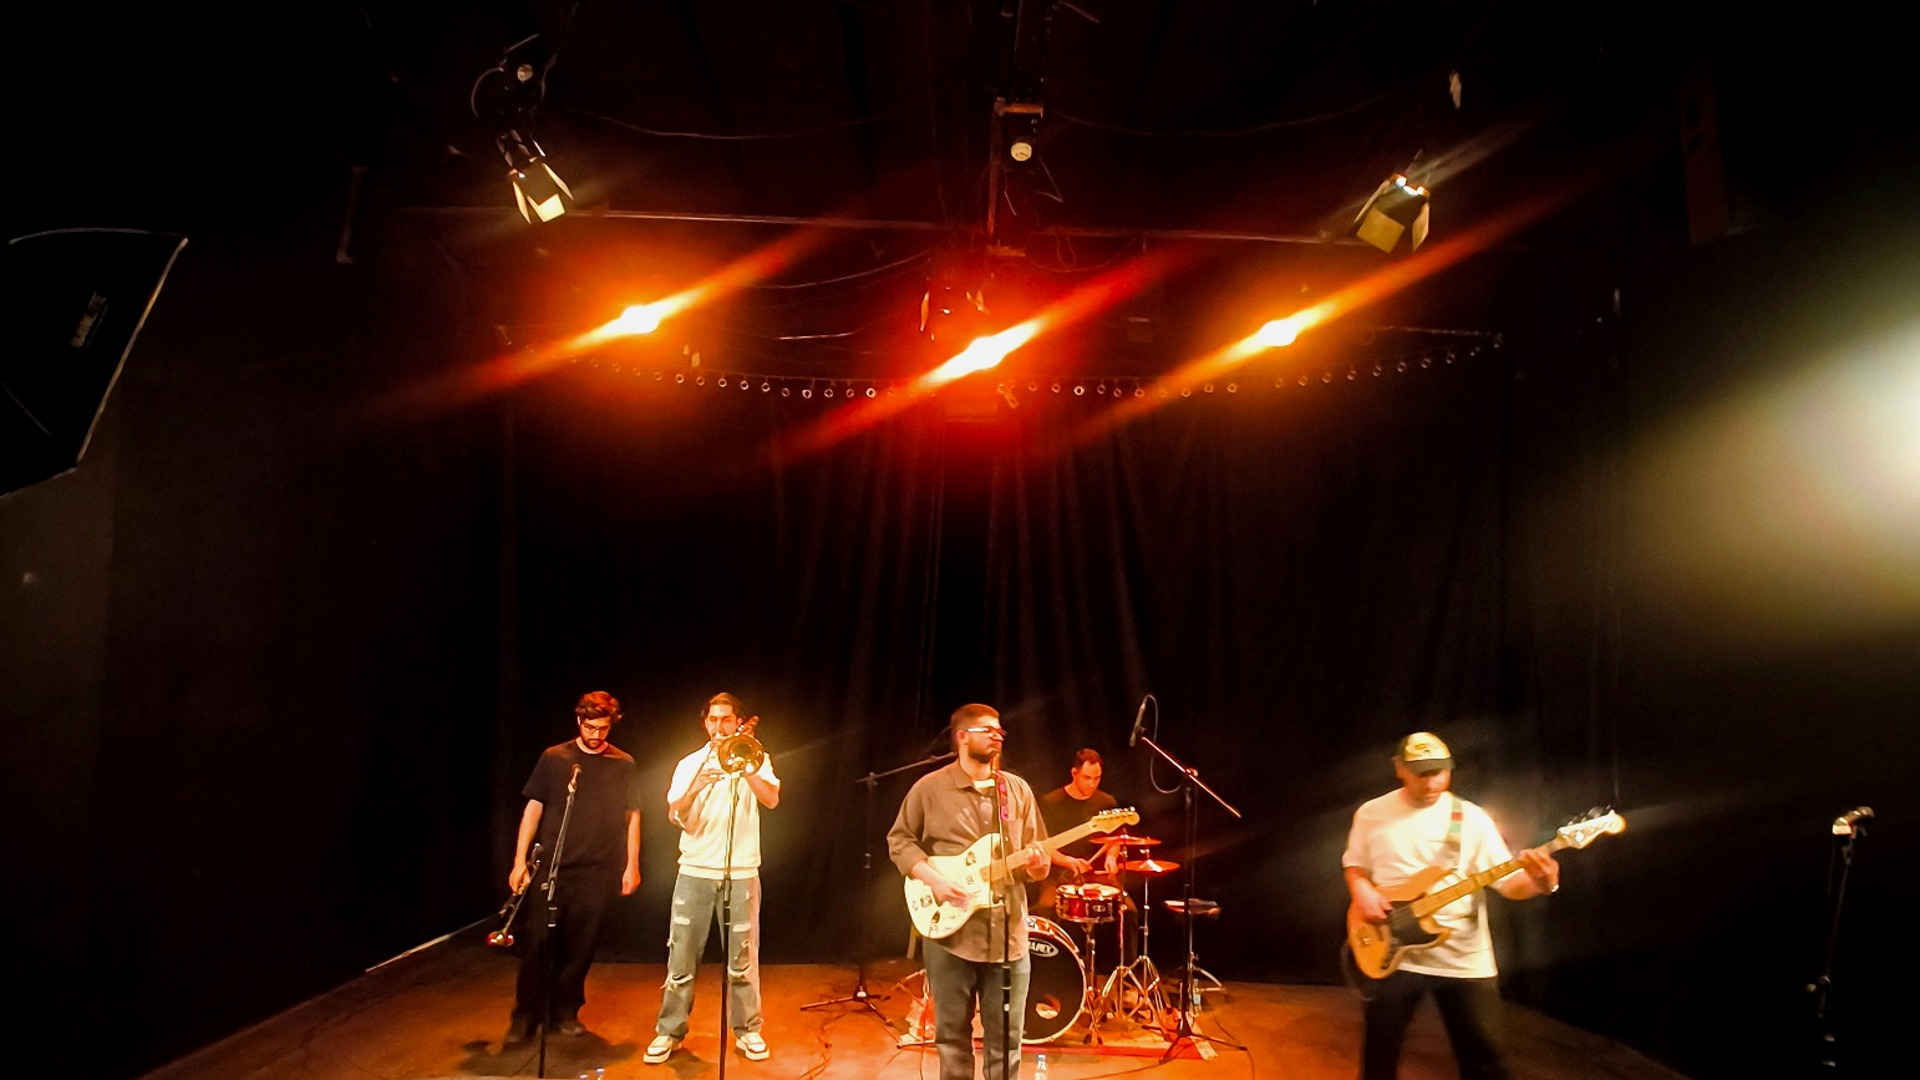
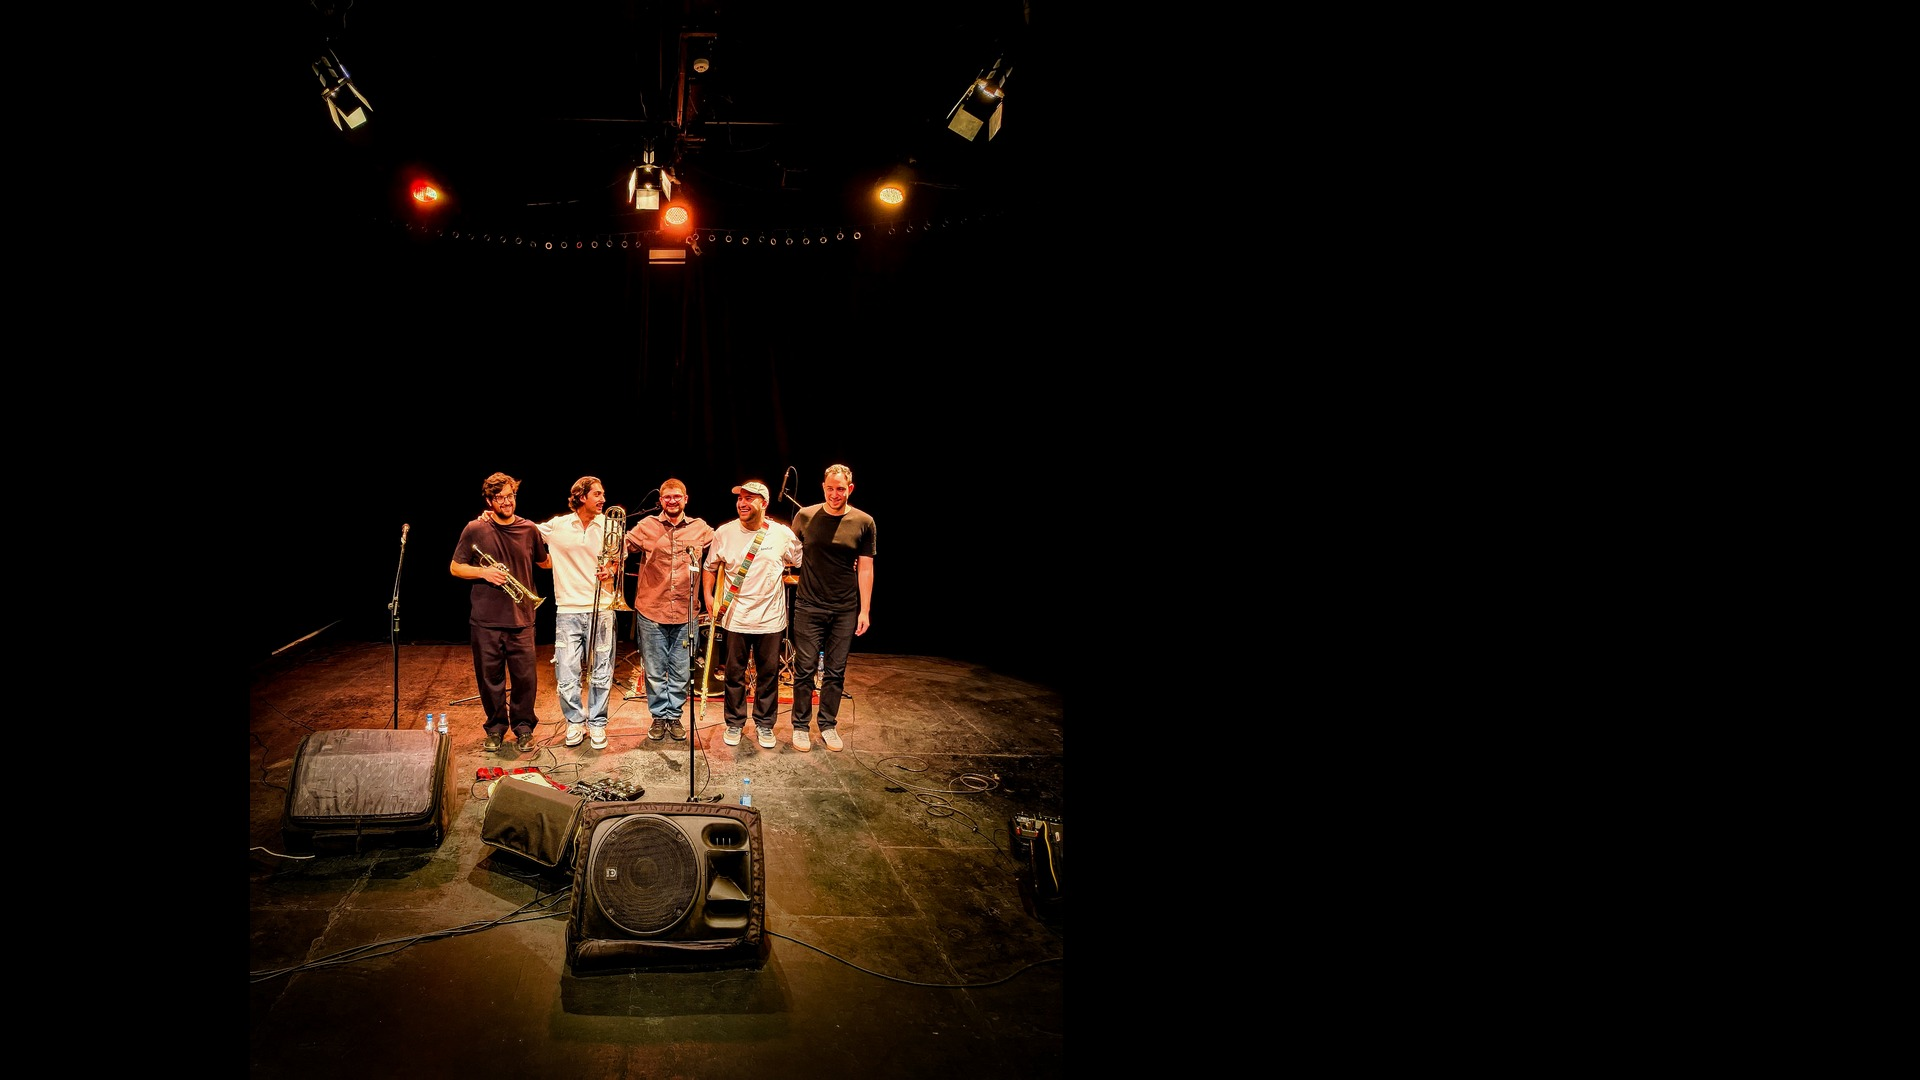
Implement website v3

diff --git a/index.html b/index.html
@@ -12,15 +12,13 @@
     <a class="brand" href="#home"><img src="assets/logo.png" alt="Jilliz Williz"></a>
 
     <nav class="nav">
-      <a data-i18n="nav_home" href="#home">خانه</a>
-      <a data-i18n="nav_about" href="#about">درباره</a>
-      <a data-i18n="nav_music" href="#music">موسیقی</a>
-      <a data-i18n="nav_members" href="#members">اعضا</a>
-      <a data-i18n="nav_contact" href="#contact">تماس</a>
+      <a href="#home">خانه</a>
+      <a href="#about">درباره</a>
+      <a href="#music">موسیقی</a>
+      <a href="#members">اعضا</a>
+      <a href="#contact">تماس</a>
     </nav>
-
-    <button class="lang" id="langBtn" type="button">EN</button>
-  </header>
+</header>
 
   <main id="home">
     <section class="hero">
@@ -28,17 +26,17 @@
       <div class="hero-overlay"></div>
 
       <div class="hero-content hero-content-up">
-        <p class="kicker" data-i18n="kicker"></p>
-        <h1><span data-i18n="hero_a">ما</span> <span class="accent" data-i18n="band_name">جیلیز ویلیز</span><span data-i18n="hero_b">یم!</span></h1>
-        <p class="lead" data-i18n="hero_text">آلترناتیو/فیوژن تشکیل شده در تهران!</p>
+        <p class="kicker"></p>
+        <h1><span>ما</span> <span class="accent">جیلیز ویلیز</span><span>یم!</span></h1>
+        <p class="lead">آلترناتیو/فیوژن تشکیل شده در تهران!</p>
         <div class="actions">
-          <a class="button primary" href="#music" data-i18n="listen">گوش بده</a>
-          <a class="button" href="#about" data-i18n="about_btn">درباره ما</a>
+          <a class="button primary" href="#music">گوش بده</a>
+          <a class="button" href="#about">درباره ما</a>
         </div>
       </div>
 
       <aside class="social">
-        <span data-i18n="follow">ما را دنبال کنید</span>
+        <span>ما را دنبال کنید</span>
         <a class="social-icon telegram" href="https://t.me/jillizwilliz" target="_blank" rel="noreferrer" aria-label="Telegram">
           <svg viewBox="0 0 24 24" aria-hidden="true"><path d="M21.7 3.3 2.9 10.6c-1.1.4-1.1 1.9.1 2.2l4.7 1.4 1.8 5.6c.4 1.1 1.8 1.3 2.4.3l2.6-3.8 4.9 3.6c.9.7 2.2.2 2.4-.9l2.2-14.2c.2-1.1-.9-2-2.3-1.5ZM8.3 13.7l10.2-6.3-8.1 7.7-.3 3.1-1.8-4.5Z"/></svg>
         </a>
@@ -49,8 +47,8 @@
     </section>
 
     <section class="section about" id="about">
-      <p class="eyebrow" data-i18n="about_label">درباره ما</p>
-      <p data-i18n="">
+      <p class="eyebrow">درباره ما</p>
+      <p>
 گروهی آلترناتیو/فیوژن که در ابتدا توسط آرین شریعت، نوازنده گیتار و خواننده، و سپهر عباسی، نوازنده ترومبون، شکل گرفت.
  سپس ماهان محمدی نوازنده ترومپت، نوید غالب نوازنده بیس و صالح خان محمدی نوازنده درامز به گروه اضافه شدند تا جیلیز ویلیز در سال ۱۴۰۳ فعالیت خود را رسما آغاز کند.
 
@@ -60,7 +58,7 @@
     <section class="section music" id="music">
       <div class="section-head">
         <div>
-          <h2 data-i18n="music_title">کار های منتشر شده</h2>
+          <h2>کار های منتشر شده</h2>
         </div>
       </div>
 
@@ -86,64 +84,64 @@
     </section>
 
     <section class="section members" id="members">
-      <p class="eyebrow">03 / MEMBERS</p>
-      <h2 data-i18n="members_title">اعضا</h2>
+      <p class="eyebrow">اعضای گروه</p>
+      <h2>اعضا</h2>
 
       <div class="members-grid">
         <article class="member">
           <img class="portrait arian" src="assets/arian.jpg" alt="Arian Shariat">
           <div class="member-copy">
-            <h3 data-i18n="name_arian">آرین شریعت</h3>
-            <b data-i18n="role_arian">Guitar & Vocal</b>
-            <p data-i18n="">گیتار، وکال</p>
-            <a class="bio-button" href="arian.html" data-i18n="read_bio">بیوگرافی</a>
+            <h3>آرین شریعت</h3>
+            <b>گیتار / وکال</b>
+            <p>گیتار، وکال</p>
+            <a class="bio-button" href="arian.html">بیوگرافی</a>
           </div>
         </article>
 
         <article class="member">
           <img class="portrait sepehr" src="assets/sepehr.jpg" alt="Sepehr Abbasi">
           <div class="member-copy">
-            <h3 data-i18n="name_sepehr">سپهر عباسی</h3>
-            <b data-i18n="role_sepehr">Trombone</b>
-            <p data-i18n="">ترومبون</p>
-            <a class="bio-button" href="sepehr.html" data-i18n="read_bio">بیوگرافی</a>
+            <h3>سپهر عباسی</h3>
+            <b>ترومبون</b>
+            <p>ترومبون</p>
+            <a class="bio-button" href="sepehr.html">بیوگرافی</a>
           </div>
         </article>
 
         <article class="member">
           <img class="portrait mahan" src="assets/mahan.jpg" alt="Mahan Mohammadi">
           <div class="member-copy">
-            <h3 data-i18n="name_mahan">ماهان محمدی</h3>
-            <b data-i18n="role_mahan">Trumpet</b>
-            <p data-i18n="">ترومپت</p>
-            <a class="bio-button" href="mahan.html" data-i18n="read_bio">بیوگرافی</a>
+            <h3>ماهان محمدی</h3>
+            <b>ترومپت</b>
+            <p>ترومپت</p>
+            <a class="bio-button" href="mahan.html">بیوگرافی</a>
           </div>
         </article>
 
         <article class="member">
           <img class="portrait navid" src="assets/navid.jpg" alt="Navid Ghaleb">
           <div class="member-copy">
-            <h3 data-i18n="name_navid">نوید غالب</h3>
-            <b data-i18n="role_navid">Bass Guitar</b>
-            <p data-i18n="">گیتار بیس</p>
-            <a class="bio-button" href="navid.html" data-i18n="read_bio">بیوگرافی</a>
+            <h3>نوید غالب</h3>
+            <b>گیتار بیس</b>
+            <p>گیتار بیس</p>
+            <a class="bio-button" href="navid.html">بیوگرافی</a>
           </div>
         </article>
 
         <article class="member">
           <img class="portrait saleh" src="assets/saleh.jpg" alt="Saleh Khan Mohammadi">
           <div class="member-copy">
-            <h3 data-i18n="name_saleh">صالح خان محمدی</h3>
-            <b data-i18n="role_saleh">Drums</b>
-            <p data-i18n="">درامز</p>
-            <a class="bio-button" href="saleh.html" data-i18n="read_bio">بیوگرافی</a>
+            <h3>صالح خان محمدی</h3>
+            <b>درامز</b>
+            <p>درامز</p>
+            <a class="bio-button" href="saleh.html">بیوگرافی</a>
           </div>
         </article>
       </div>
     </section>
 
-    <section class="contact section"<section class="contact section" id="contact">
-      <h2 data-i18n="contact_title">ما را دنبال کنید</h2>
+    <section class="contact section" id="contact">
+      <h2>ما را دنبال کنید</h2>
       <div class="contact-links">
         <a class="social-icon telegram" href="https://t.me/jillizwilliz" target="_blank" rel="noreferrer" aria-label="Telegram">
           <svg viewBox="0 0 24 24" aria-hidden="true"><path d="M21.7 3.3 2.9 10.6c-1.1.4-1.1 1.9.1 2.2l4.7 1.4 1.8 5.6c.4 1.1 1.8 1.3 2.4.3l2.6-3.8 4.9 3.6c.9.7 2.2.2 2.4-.9l2.2-14.2c.2-1.1-.9-2-2.3-1.5ZM8.3 13.7l10.2-6.3-8.1 7.7-.3 3.1-1.8-4.5Z"/></svg>
@@ -159,7 +157,5 @@
     <img src="assets/logo.png" alt="">
     <span>© Jilliz Williz</span>
   </footer>
-
-  <script src="script.js"></script>
 </body>
 </html>

diff --git a/style.css b/style.css
@@ -1,4 +1,5 @@
-@font-face{font-family:SiteSans;src:local(Tahoma)}
+@import url('https://fonts.googleapis.com/css2?family=Changa:wght@400;500;600;700;800&family=Vazirmatn:wght@300;400;500;600;700;800;900&display=swap');
+
 :root{
   --bg:#050505;
   --panel:#0c0c0b;
@@ -12,7 +13,7 @@
 }
 *{box-sizing:border-box}
 html{scroll-behavior:smooth}
-body{margin:0;background:var(--bg);color:var(--text);font-family:SiteSans,Arial,sans-serif;line-height:1.8}
+body{margin:0;background:var(--bg);color:var(--text);font-family:'Vazirmatn',Tahoma,Arial,sans-serif;line-height:1.95;font-weight:400}
 body.en{direction:ltr}
 a{text-decoration:none;color:inherit}
 .header{
@@ -281,5 +282,74 @@ footer img{width:62px}
 @media(max-width:620px){
   .hero-content-up{
     transform: translateY(-26px);
+  }
+}
+
+
+/* Persian-only typography refresh */
+h1,h2,h3,.nav,.button,.bio-button,.back-link,.track h3,.member-bio-card h1{
+  font-family:'Changa','Vazirmatn',Tahoma,Arial,sans-serif;
+}
+h1{
+  font-weight:800;
+  letter-spacing:-.055em;
+}
+.section h2,.contact h2{
+  font-weight:800;
+  letter-spacing:-.035em;
+}
+.nav{
+  font-size:15px;
+  font-weight:600;
+}
+.lead,.about p:last-child,.member p,.member-bio-card p{
+  font-family:'Vazirmatn',Tahoma,Arial,sans-serif;
+}
+.member h3{
+  font-weight:800;
+}
+.member b{
+  font-family:'Vazirmatn',Tahoma,Arial,sans-serif;
+  font-weight:700;
+}
+.back-link{
+  background:rgba(0,0,0,.35);
+  color:var(--yellow);
+  border:1px solid var(--line);
+  border-radius:999px;
+  padding:9px 16px;
+  cursor:pointer;
+}
+
+
+/* header image no-face-cover update: sharp photo, faces kept away from text */
+.hero-bg{
+  background-position:center center;
+}
+
+.hero-overlay{
+  background:
+    linear-gradient(270deg,rgba(0,0,0,.94) 0%,rgba(0,0,0,.76) 31%,rgba(0,0,0,.18) 62%,rgba(0,0,0,.30) 100%),
+    linear-gradient(to top,#050505 0%,rgba(5,5,5,.22) 36%,transparent 72%) !important;
+}
+
+@media(max-width:900px){
+  .hero{
+    min-height:100vh;
+    align-items:end;
+    padding-bottom:42px;
+  }
+  .hero-bg{
+    background-size:contain;
+    background-position:center 78px;
+    background-repeat:no-repeat;
+    background-color:#050505;
+  }
+  .hero-overlay{
+    background:
+      linear-gradient(to top,#050505 0%,rgba(5,5,5,.98) 25%,rgba(5,5,5,.42) 50%,rgba(5,5,5,.08) 100%) !important;
+  }
+  .hero-content{
+    padding-top:0;
   }
 }

diff --git a/arian.html b/arian.html
@@ -15,7 +15,7 @@
       <a href="index.html#members">اعضا</a>
       <a href="index.html#contact">تماس</a>
     </nav>
-    <a class="lang back-link" href="index.html#members">بازگشت</a>
+    <a class="back-link" href="index.html#members">بازگشت</a>
   </header>
 
   <main class="member-page">
@@ -25,12 +25,11 @@
       </div>
 
       <article class="member-bio-card">
-        <p class="eyebrow">JILLIZ WILLIZ / Guitar & Vocal</p>
+        <p class="eyebrow">جیلیز ویلیز / گیتار / وکال</p>
         <h1>آرین شریعت</h1>
-        <h2>Arian Shariat</h2>
-        <p>آرین آرین آرینر ر آرینآرین آرین آرین آرین آرین آرین آرین آرین ر ر آرین</p>
-        <div class="bio-divider"></div>
-        <p class="english-text">Arian arian Arian arianArian arian Arian arian Arian arian Arian arian Arian arian</p>
+<p>آرین شریعت، متولد ۱۳۷۷ در تهران، خواننده، ترانهسرا، تنظیمکننده و تهیهکننده موسیقی است. او فارغالتحصیل رشته مهندسی کامپیوتر از دانشگاه علم و صنعت ایران است و فعالیت حرفهای خود را در موسیقی از سال ۱۳۹۶ با گروه «جتپک» آغاز کرد.
+
+در سالهای بعد، مسیر هنری آرین در قالب پروژههای متنوعی ادامه پیدا کرد؛ از گروه آلترناتیو/فیوژن «جیلیز ویلیز» گرفته تا پروژه شخصی «آرین» و همکاری با هنرمندان مستقل بهعنوان ترانهسرا، تنظیمکننده و تهیهکننده. نگاه او به موسیقی، تلفیق تجربههای گوناگون و جستوجوی صداهای تازه است و هر یک از پروژههایش بخشی از این مسیر را روایت میکنند.</p>
         <a class="button primary" href="index.html#members">برگشت به اعضا</a>
       </article>
     </section>

diff --git a/mahan.html b/mahan.html
@@ -15,7 +15,7 @@
       <a href="index.html#members">اعضا</a>
       <a href="index.html#contact">تماس</a>
     </nav>
-    <a class="lang back-link" href="index.html#members">بازگشت</a>
+    <a class="back-link" href="index.html#members">بازگشت</a>
   </header>
 
   <main class="member-page">
@@ -25,12 +25,11 @@
       </div>
 
       <article class="member-bio-card">
-        <p class="eyebrow">JILLIZ WILLIZ / Trumpet</p>
+        <p class="eyebrow">جیلیز ویلیز / ترومپت</p>
         <h1>ماهان محمدی</h1>
-        <h2>Mahan Mohammadi</h2>
-        <p> ماهان ماهان ماهان ماهان v ماهان ماهان ماهان ماهان</p>
-        <div class="bio-divider"></div>
-        <p class="english-text">Mahan  mahan Mahan  mahan  Mahan  mahan  Mahan  mahan  Mahan  mahan </p>
+<p>ماهان محمدی، متولد ۱۳۷۶، نوازندگی ترومپت را از ۱۰ سالگی آغاز کرد. علاقه او به موسیقی اقوام ایران باعث شد در کنار ترومپت، سازهایی مانند دوتار جنوب خراسان، سهتار و تنبک را نیز فرا بگیرد و نگاه گستردهتری به موسیقی ایرانی پیدا کند.
+
+علاوه بر فعالیت حرفهای در نوازندگی، ماهان در زمینه آموزش موسیقی به کودکان نیز فعالیت دارد و از سال ۱۴۰۰ در موزه کودکی ایرانک، کارگاههای موسیقی و نمایش برای کودکان برگزار میکند. او در «جیلیز ویلیز» با بهرهگیری از تجربه خود در موسیقی ایرانی و غربی، نقش مهمی در شکلگیری رنگ صوتی گروه دارد.</p>
         <a class="button primary" href="index.html#members">برگشت به اعضا</a>
       </article>
     </section>

diff --git a/saleh.html b/saleh.html
@@ -15,7 +15,7 @@
       <a href="index.html#members">اعضا</a>
       <a href="index.html#contact">تماس</a>
     </nav>
-    <a class="lang back-link" href="index.html#members">بازگشت</a>
+    <a class="back-link" href="index.html#members">بازگشت</a>
   </header>
 
   <main class="member-page">
@@ -25,12 +25,11 @@
       </div>
 
       <article class="member-bio-card">
-        <p class="eyebrow">JILLIZ WILLIZ / Drums</p>
+        <p class="eyebrow">جیلیز ویلیز / درامز</p>
         <h1>صالح خان محمدی</h1>
-        <h2>Saleh Khan Mohammadi</h2>
-        <p> صالح صالح صالح صالح ر ر صالح صالح صالح صالح صالح صالح صالح صالح</p>
-        <div class="bio-divider"></div>
-        <p class="english-text">SalehSaleh Saleh Saleh Saleh Saleh Saleh Saleh .</p>
+<p>صالح خان محمدی، متولد ۱۳۷۹، فعالیت موسیقی خود را در نوجوانی با نوازندگی تار آغاز کرد. او در ۱۷ سالگی به ساز درامز روی آورد و پس از مدتی فعالیت خود را بهصورت حرفهایتر با پیوستن به گروه راک «سکران» ادامه داد.
+
+صالح از سال ۱۴۰۳ به گروه «جیلیز ویلیز» پیوست و از آن زمان در ساخت قطعات، تنظیم ایدههای ریتمیک و اجراهای زنده گروه نقش داشته است. سبک نوازندگی او ترکیبی از انرژی، دقت و نگاه تجربی به ریتم است.</p>
         <a class="button primary" href="index.html#members">برگشت به اعضا</a>
       </article>
     </section>

diff --git a/sepehr.html b/sepehr.html
@@ -15,7 +15,7 @@
       <a href="index.html#members">اعضا</a>
       <a href="index.html#contact">تماس</a>
     </nav>
-    <a class="lang back-link" href="index.html#members">بازگشت</a>
+    <a class="back-link" href="index.html#members">بازگشت</a>
   </header>
 
   <main class="member-page">
@@ -25,12 +25,11 @@
       </div>
 
       <article class="member-bio-card">
-        <p class="eyebrow">JILLIZ WILLIZ / Trombone</p>
+        <p class="eyebrow">جیلیز ویلیز / ترومبون</p>
         <h1>سپهر عباسی</h1>
-        <h2>Sepehr Abbasi</h2>
-        <p> سپهر ر سپهر سپهر سپهر سپهر سپهر .</p>
-        <div class="bio-divider"></div>
-        <p class="english-text">Sepehr Sepehr ر Sepehr Sepehr Sepehr Sepehr.</p>
+<p>سپهر عباسی، متولد ۱۳۷۴، نوازندگی موسیقی را از ۱۰ سالگی آغاز کرد و از ۱۲ سالگی با ورود به هنرستان عالی موسیقی تهران، آموزش تخصصی ترومبون را دنبال کرد. او تحصیلات خود را در رشته نوازندگی ترومبون در دانشگاه تهران ادامه داد و از همان سالها فعالیت حرفهای خود را در حوزه موسیقی کلاسیک و ارکسترال گسترش داد.
+
+سپهر از سال ۱۳۸۶ همکاری خود را با ارکسترهای مختلف آغاز کرده و از سال ۱۳۹۴ تاکنون بهعنوان نوازنده ارکستر سمفونیک تهران فعالیت میکند. او در طول این سالها با رهبران برجسته ایرانی و بینالمللی، ارکسترهای متعدد و پروژههای موسیقی کلاسیک، موسیقی فیلم، تئاتر موزیکال و موسیقی معاصر همکاری داشته و در کنار آن، آثار و پروژههای شخصی خود را نیز منتشر کرده است.</p>
         <a class="button primary" href="index.html#members">برگشت به اعضا</a>
       </article>
     </section>

diff --git a/script.js b/script.js
@@ -1,9 +1,1 @@
-const tr={
-fa:{dir:'rtl',btn:'EN',nav_home:'خانه',nav_about:'درباره',nav_music:'موسیقی',nav_members:'اعضا',nav_contact:'تماس',about_label:'درباره ما',kicker:'',hero_a:'ما',band_name:'جیلیز ویلیز',hero_b:'یم!',hero_text:'آلترناتیو/فیوژن تشکیل شده در تهران!',listen:'گوش بده',about_btn:'درباره ما',follow:'ما را دنبال کنید',about_text:'جیلیز ویلیز از سال ۱۴۰۳ فعالیتش را شروع کرد؛ گروهی آلترناتیو/فیوژن که توسط آرین شریعت، نوازنده گیتار و خواننده، و سپهر عباسی، نوازنده ترومبون، شکل گرفت. بعدتر ماهان محمدی با ترومپت، نوید غالب با بیس و صالح خان محمدی با درامز به گروه اضافه شدند.',music_title:'کار های منتشر شده',track_1:'اولین قطعه منتشرشده جیلیز ویلیز.',track_2:'یک قطعه از دنیای شلوغ، رنگی و صمیمی گروه.',members_title:'اعضا',read_bio:'بیوگرافی',name_arian:'آرین شریعت',name_sepehr:'سپهر عباسی',name_mahan:'ماهان محمدی',name_navid:'نوید غالب',name_saleh:'صالح خان محمدی',role_arian:'گیتار / وکال',role_sepehr:'ترومبون',role_mahan:'ترومپت',role_navid:'بیس',role_saleh:'درامز',bio_arian_short:'گیتار، وکال و ایدههای اولیه.',bio_sepehr_short:'ترومبون و رنگهای گرم برنجی.',bio_mahan_short:'ترومپت و خطهای روشن.',bio_navid_short:'بیس و ستون فرکانسهای پایین.',bio_saleh_short:'درامز و ریتمهای پرانرژی.',bio_arian:'آرین بین ملودیهای ساده، ریفهای جَزی و ایدههای عجیب زندگی میکند و معمولاً همانجا آهنگ میسازد.',bio_sepehr:'سپهر صدای گرم ترومبون را وارد گروه کرد؛ جایی بین هارمونی، شوخی و لحظههای سینمایی.',bio_mahan:'ماهان با ترومپت خطهای روشن، تیز و پرانرژی میسازد؛ مثل چراغی وسط شلوغی قطعه.',bio_navid:'نوید زمینِ قطعهها را نگه میدارد؛ فرکانسهایی که شاید کمتر دیده شوند، اما همهچیز روی آنها میایستد.',bio_saleh:'صالح ریتمها را جمعوجور میکند، بعد با سلیقه دوباره آنها را کمی به هم میریزد.',contact_title:'ما را دنبال کنید'},
-en:{dir:'ltr',btn:'FA',nav_home:'Home',nav_about:'About',nav_music:'Music',nav_members:'Members',nav_contact:'Contact',about_label:'About us',kicker:'From Tehran, with odd rhythms',hero_a:'We are',band_name:'Jilliz Williz',hero_b:'!',hero_text:'An alternative/fusion band formed in Tehran!',listen:'Listen',about_btn:'About us',follow:'Follow us',about_text:'Jilliz Williz started in 2024; an alternative/fusion band founded by Arian Shariat, guitarist and vocalist, and Sepehr Abbasi, trombonist. Later, Mahan Mohammadi on trumpet, Navid Ghaleb on bass, and Saleh Khan Mohammadi on drums joined the band.',music_title:'Released Works',track_1:'The first released track by Jilliz Williz.',track_2:'A track from the band’s messy, colorful and intimate world.',members_title:'Members',read_bio:'Biography',name_arian:'Arian Shariat',name_sepehr:'Sepehr Abbasi',name_mahan:'Mahan Mohammadi',name_navid:'Navid Ghaleb',name_saleh:'Saleh Khan Mohammadi',role_arian:'Guitar / Vocal',role_sepehr:'Trombone',role_mahan:'Trumpet',role_navid:'Bass',role_saleh:'Drums',bio_arian_short:'Guitar, vocals, and first ideas.',bio_sepehr_short:'Trombone and warm brass colors.',bio_mahan_short:'Trumpet and bright lines.',bio_navid_short:'Bass and the low-end foundation.',bio_saleh_short:'Drums and energetic rhythms.',bio_arian:'Arian lives somewhere between simple melodies, jazzy riffs and strange ideas; that is usually where songs happen. In Jilliz Williz, he brings the vocal and guitar parts together with a song-oriented but experimental approach.',bio_sepehr:'Sepehr brings the warm sound of trombone into the band; somewhere between harmony, humor and cinematic moments. His presence gives the songs a deep brass color and an unexpected twist.',bio_mahan:'Mahan creates bright, sharp and energetic trumpet lines; like a light in the middle of the song’s chaos. His role is to add shiny phrases and short melodic bursts to the band sound.',bio_navid:'Navid holds the ground beneath the songs; frequencies that may be less visible, but everything stands on them. His bass keeps the rhythmic body of the band steady and fluid.',bio_saleh:'Saleh gathers the rhythms together, then tastefully messes them up again. His drums push the live energy forward and keep the songs moving.',contact_title:'Follow us'}
-};
-let current='fa';
-const btn=document.getElementById('langBtn');
-function setLang(lang){current=lang;document.documentElement.lang=lang;document.documentElement.dir=tr[lang].dir;document.body.classList.toggle('en',lang==='en');btn.textContent=tr[lang].btn;document.querySelectorAll('[data-i18n]').forEach(el=>{const k=el.dataset.i18n;if(tr[lang][k])el.textContent=tr[lang][k]})}
-btn.addEventListener('click',()=>setLang(current==='fa'?'en':'fa'));
-setLang('fa');
+// Persian-only version: no language switch needed.

diff --git a/navid.html b/navid.html
@@ -15,7 +15,7 @@
       <a href="index.html#members">اعضا</a>
       <a href="index.html#contact">تماس</a>
     </nav>
-    <a class="lang back-link" href="index.html#members">بازگشت</a>
+    <a class="back-link" href="index.html#members">بازگشت</a>
   </header>
 
   <main class="member-page">
@@ -25,12 +25,9 @@
       </div>
 
       <article class="member-bio-card">
-        <p class="eyebrow">JILLIZ WILLIZ / Bass Guitar</p>
+        <p class="eyebrow">جیلیز ویلیز / گیتار بیس</p>
         <h1>نوید غالب</h1>
-        <h2>Navid Ghaleb</h2>
-        <p>نوید نوید نوید نوید نوید نوید نوید نوید نوید نوید نوید .</p>
-        <div class="bio-divider"></div>
-        <p class="english-text">Navid navid Navid navid Navid navid Navid navid Navid navid Navid navid </p>
+<p>بیوگرافی این بخش بهزودی تکمیل خواهد شد.</p>
         <a class="button primary" href="index.html#members">برگشت به اعضا</a>
       </article>
     </section>